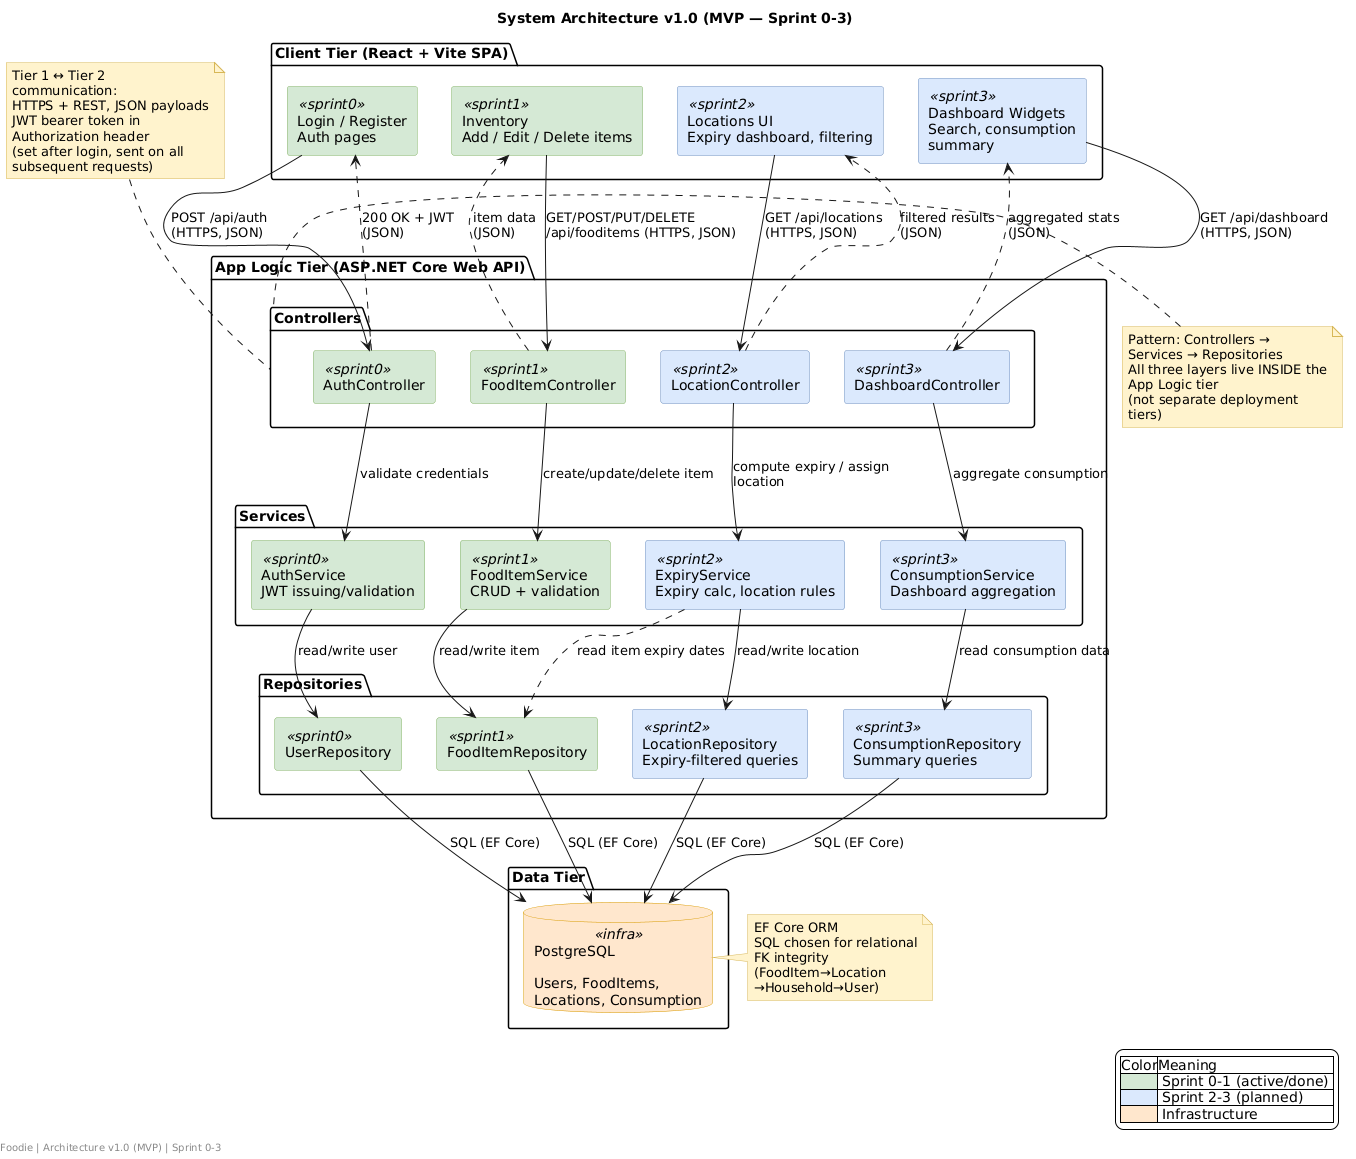
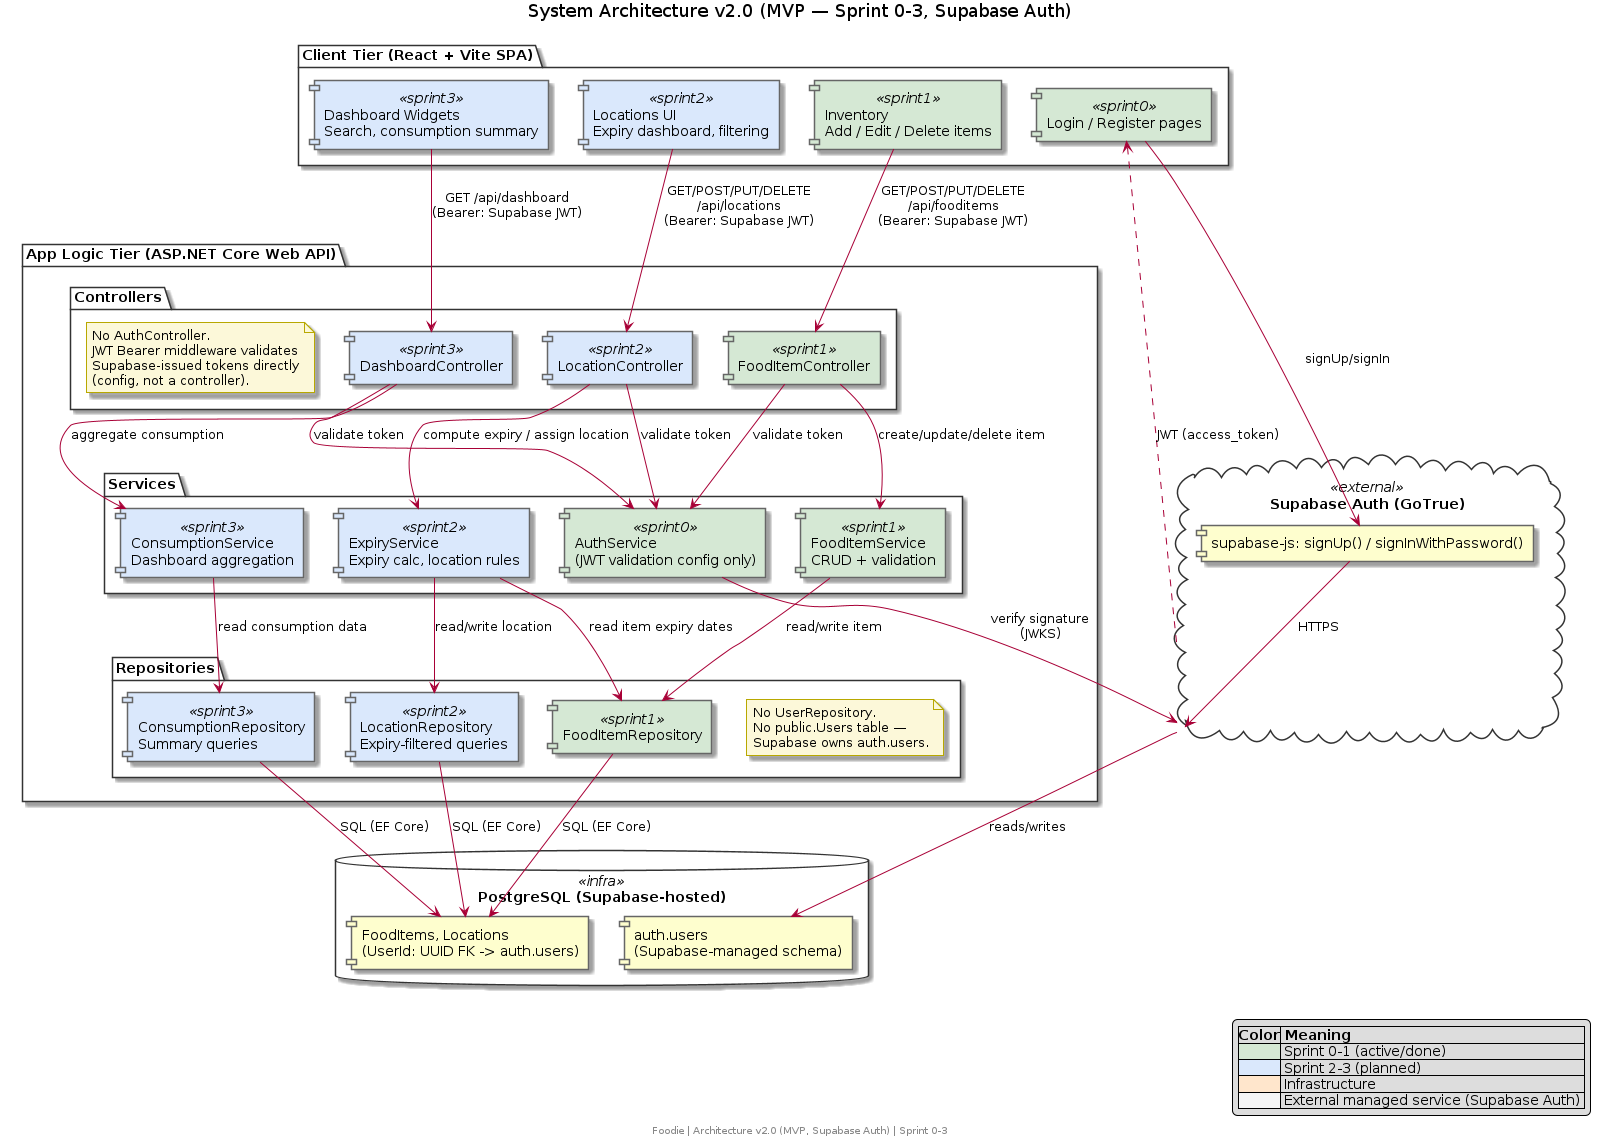
docs: update document to align with authentication shift to depend on Supabase

diff --git a/docs/Foodie_Database_Decisions.md b/docs/Foodie_Database_Decisions.md
@@ -4,7 +4,7 @@
 
 ## 1. Tables (Entities)
 
-Three tables for the MVP: **Users**, **Locations**, **FoodItems**.
+Two tables of our own for the MVP: **Locations**, **FoodItems**. There is no `public.Users` table — Supabase Auth owns identity via `auth.users`, and `Locations`/`FoodItems` reference `auth.users.id` directly.
 
 **Chosen over:** A single denormalized table; a separate `Consumption` table.
 
@@ -14,11 +14,11 @@ Each table represents one real-world concept with no repeating groups (1NF) and 
 
 ## 2. Primary Keys — Surrogate, not Natural
 
-**Chosen over:** Natural keys (e.g. `Email` as PK on Users, `Name` as PK on Locations).
+**Chosen over:** Natural keys (e.g. `Name` as PK on Locations).
 
-All three tables use an auto-incrementing `Id` (INT) as a surrogate primary key.
+`Locations` and `FoodItems` each use an auto-incrementing `Id` (INT) as a surrogate primary key, unchanged. `UserId` on both is now a `UUID`, not an `INT` — it's a foreign key into Supabase's `auth.users.id`, which we don't generate ourselves.
 
-Surrogate keys were chosen because: none of Foodie's entities have a value that's both naturally unique *and* guaranteed never to change. `Email` could be a candidate key on `Users` (and is enforced as `UNIQUE`, see Section 4), but using it as the PK would mean every FK referencing a user breaks if the email is ever updated. `Location.Name` ("Fridge", "Pantry") isn't even unique within a household, let alone across all users. Surrogate keys avoid both problems and keep every FK column a stable, opaque integer.
+Surrogate keys were chosen for `Locations.Id`/`FoodItems.Id` because none of Foodie's own entities have a value that's both naturally unique *and* guaranteed never to change. `Location.Name` ("Fridge", "Pantry") isn't even unique within a household, let alone across all users. Surrogate keys avoid this and keep those PK columns stable, opaque integers.
 
 ---
 
@@ -28,9 +28,9 @@ All three relationships in Foodie are **one-to-many**; there are no many-to-many
 
 | Relationship | Cardinality | FK column |
 |---|---|---|
-| Users → Locations | 1 : N | `Locations.UserId` |
-| Users → FoodItems | 1 : N | `FoodItems.UserId` |
-| Locations → FoodItems | 1 : N | `FoodItems.LocationId` |
+| auth.users → Locations | 1 : N | `Locations.UserId` (UUID) |
+| auth.users → FoodItems | 1 : N | `FoodItems.UserId` (UUID) |
+| Locations → FoodItems | 1 : N | `FoodItems.LocationId` (INT) |
 
 **Why no junction table:** the article's many-to-many pattern (e.g. students↔courses) applies when both sides can have multiple of the other. That's not true here — one location belongs to exactly one user, one food item belongs to exactly one location. If a future feature allowed *shared households* (multiple users managing the same location), that would become many-to-many and require a junction table (e.g. `LocationMembers`). Out of scope for MVP.
 
@@ -49,7 +49,7 @@ These can't both be enforced as hard database constraints simultaneously: `ON DE
 
 **Why this split, not the other way around:** Enforcing "required" at the DB level (`NOT NULL`) would force `ON DELETE` to be either `CASCADE` (deletes the user's food data — too destructive for what should be a low-stakes action like renaming/removing a shelf) or `NO ACTION`/`RESTRICT` (blocks the delete entirely until every item is reassigned — overly strict for a casual organizing app). `SET NULL` is the better UX: delete the location, items survive as "unassigned," user reassigns them later through the normal edit flow. The trade-off is that referential integrity alone can no longer guarantee every item has a location — that responsibility now sits with the application/service layer (`FoodItemService`), which is an explicit, documented gap rather than an accidental one.
 
-All other FK columns (`Locations.UserId`, `FoodItems.UserId`) are **NOT NULL** — a location or food item with no owning user is meaningless, and there's no equivalent "soft unassign" use case for the user relationship; if a user is deleted, their data should go with them (`ON DELETE CASCADE`).
+All other FK columns (`Locations.UserId`, `FoodItems.UserId`) are **NOT NULL** — a location or food item with no owning user is meaningless, and there's no equivalent "soft unassign" use case for the user relationship; if a user is deleted, their data should go with them (`ON DELETE CASCADE`). These FKs now reference `auth.users.id` instead of a table we manage ourselves; the cascade still fires the same way on user deletion.
 
 ---
 
@@ -69,9 +69,9 @@ Following the article's three integrity types:
 
 | Type | Applied as |
 |---|---|
-| **Entity integrity** | Every table has a non-null, unique surrogate PK (`Id`) |
+| **Entity integrity** | Every table has a non-null, unique surrogate PK (`Id`); user identity integrity is Supabase's responsibility (`auth.users`) |
 | **Referential integrity** | All FKs declared with explicit `ON DELETE` behavior (Section 4) — none left as an undefined default |
-| **Domain integrity** | `Quantity` constrained to `>= 0` (`CHECK` constraint); `Email` constrained `UNIQUE` |
+| **Domain integrity** | `Quantity` constrained to `>= 0` (`CHECK` constraint); email uniqueness is enforced by Supabase Auth, not our schema |
 
 ---
 
@@ -79,5 +79,6 @@ Following the article's three integrity types:
 
 - **Consumption history table** — not needed until a feature requires historical reporting, not just current state (Section 1)
 - **Shared households / multi-user locations** — would require a many-to-many junction table; not in Sprint 0-3 scope (Section 3)
-- **Soft-delete on Users/Locations/FoodItems** — MVP uses hard deletes with cascade/set-null; soft-delete (an `IsDeleted` flag) would be a later addition if an "undo delete" or audit-trail feature is requested
-- **Physical address on Locations** — MVP assumes one home per user, so `Locations` has no `Address` field. Adding one now would duplicate the same address on every row for that user (a 3NF violation — address depends on the *home*, not the *location*). When multi-home support is added, the fix is a new `Homes` table (`Id`, `Address`, owning `User`) with `Locations` gaining a `HomeId` FK — not an `Address` column on `Locations` itself.
+- **Soft-delete on Locations/FoodItems** — MVP uses hard deletes with cascade/set-null; soft-delete (an `IsDeleted` flag) would be a later addition if an "undo delete" or audit-trail feature is requested. (User soft-delete is Supabase Auth's responsibility, not ours.)
+- **Physical address on Locations** — MVP assumes one home per user, so `Locations` has no `Address` field. Adding one now would duplicate the same address on every row for that user (a 3NF violation — address depends on the *home*, not the *location*). When multi-home support is added, the fix is a new `Homes` table (`Id`, `Address`, owning user via `UserId UUID`) with `Locations` gaining a `HomeId` FK — not an `Address` column on `Locations` itself.
+- **Row Level Security (RLS)** — deliberately not adopted for MVP; the ASP.NET Core API remains the sole gatekeeper (Services layer, as in Section 4). Revisit only if the database is ever queried by more than one trusted backend, or by clients directly.

diff --git a/docs/Foodie_Architecture_Decisions.md b/docs/Foodie_Architecture_Decisions.md
@@ -23,7 +23,9 @@ App Logic Tier     →  ASP.NET Core Web API
                       (Controllers → Services → Repositories, one process)
 
   Controllers      →  HTTP in/out
-                      ├── AuthController ...................... Sprint 0
+                      ├── (no AuthController — Supabase Auth
+                      │     handles register/login directly
+                      │     from the client) .................. Sprint 0
                       ├── FoodItemsController ................. Sprint 1
                       ├── LocationsController, expiry
                       │     endpoints ......................... Sprint 2
@@ -32,8 +34,9 @@ App Logic Tier     →  ASP.NET Core Web API
         │
         ▼
   Services         →  Business rules
-                      ├── JWT issuing/validation, password
-                      │     hashing ........................... Sprint 0
+                      ├── JWT validation config only (no
+                      │     issuing, no password hashing —
+                      │     Supabase Auth owns both) .......... Sprint 0
                       ├── Item validation rules ................ Sprint 1
                       ├── Expiry calculation, location-
                       │     assignment rules .................. Sprint 2
@@ -42,7 +45,8 @@ App Logic Tier     →  ASP.NET Core Web API
         │
         ▼
   Repositories     →  EF Core data access
-                      ├── UserRepository ....................... Sprint 0
+                      ├── (no UserRepository — no public.Users
+                      │     table; Supabase owns auth.users) .. Sprint 0
                       ├── FoodItemRepository ................... Sprint 1
                       ├── LocationRepository, expiry-filtered
                       │     queries ............................ Sprint 2
@@ -50,14 +54,18 @@ App Logic Tier     →  ASP.NET Core Web API
                             summary queries .................... Sprint 3
         │
         ▼
-Database Tier      →  PostgreSQL
-                      ├── Users table, initial migration ....... Sprint 0
-                      ├── FoodItems table ....................... Sprint 1
+Database Tier      →  PostgreSQL (Supabase-hosted)
+                      ├── auth.users managed entirely by
+                      │     Supabase Auth ...................... Sprint 0
+                      ├── FoodItems table (UserId as UUID FK
+                      │     into auth.users) ................... Sprint 1
                       ├── Locations table, FK to FoodItems ...... Sprint 2
                       └── Schema support for consumption ........ Sprint 3
 ```
 
 Each arrow is a process boundary the previous tier can't see past — the client never talks to the database directly, and the database has no awareness of the client. Controllers, Services, and Repositories all run inside the *same* Tier 2 process; that's internal code organization, not three more tiers. The system is still 3-tier — Tier 2 just has structure inside it.
+
+*One boundary is deliberately different: for register/login specifically, the Client Tier talks directly to Supabase Auth, not through Tier 2.* This isn't the client reaching into the Database Tier — Supabase Auth is a managed identity service sitting in front of the `auth.users` data, not raw table access. Every other operation (Locations, FoodItems, expiry, consumption) still flows Client → Tier 2 → Tier 3 exactly as before; Tier 2 just receives an already-issued JWT to validate rather than issuing one itself.
 
 *Tier 1 renders client-side (CSR), not server-side — Foodie is a private, authenticated app with no anonymous-visitor or SEO audience, so SSR's main benefits don't apply. Revisit only if a public, SEO-relevant surface is added later.*
 

diff --git a/docs/Foodie_Sprint_Roadmap.md b/docs/Foodie_Sprint_Roadmap.md
@@ -7,7 +7,7 @@
 ---
 
 ## Sprint 0 — Planning & Foundation
-**Duration:** Week 1 (7 days)
+**Duration:** Week 1 (7 days; ~6 days of scoped work below — the Supabase Auth switch frees up ~1 day versus the original self-issued JWT plan, left as buffer)
 **Goal:** Create project foundations and establish a clear project direction before development begins.
 
 | Task | Est. Duration |
@@ -16,7 +16,7 @@
 | 2. User Stories & Requirements | 1 day |
 | 3. System Design | 1.5 days |
 | 4. Project Setup | 1.5 days |
-| 5. Authentication | 2 days |
+| 5. Authentication | 1 day |
 
 ### Task 1 — Define Product Scope and MVP *(1 day)*
 - Product Vision
@@ -42,11 +42,11 @@
 **Frontend:** Create React Vite application · Configure routing · Configure API service layer
 **Database:** Configure PostgreSQL · Configure Entity Framework Core · Create initial migration
 
-### Task 5 — Authentication *(2 days)*
-**Backend:** User Entity · Register API · Login API · JWT Authentication
-**Frontend:** Login Page · Register Page
+### Task 5 — Authentication *(1 day)*
+**Backend:** Configure Supabase Auth project (email/password provider only) · Configure JWT Bearer middleware to validate Supabase-issued tokens (no Register/Login API, no User entity — Supabase's `auth.users` replaces both)
+**Frontend:** Install `@supabase/supabase-js` · Login Page · Register Page (calling `supabase.auth.signInWithPassword()` / `signUp()` directly, not a custom backend endpoint)
 
-**Deliverable:** Users can register and login.
+**Deliverable:** Users can register and login via Supabase Auth; the ASP.NET Core API validates the resulting JWT on every subsequent request.
 
 ---
 

diff --git a/docs/Foodie_Tech_Decisions.md b/docs/Foodie_Tech_Decisions.md
@@ -53,14 +53,17 @@
 
 ---
 
-## 5. JWT Authentication
+## 5. Supabase Auth (JWT issued by Supabase, validated by ASP.NET Core)
 
-**Chosen over:** Session-based auth
+**Chosen over:** Self-issued JWT (original decision), Session-based auth
 
-**Reason:** Stateless, fits an SPA calling a separate API — no server-side session store. Claims (user ID, household ID) avoid a DB round-trip per request.
+**Reason:** Stateless JWT still fits an SPA calling a separate API — no session store, claims avoid a DB round-trip per request. Supabase's Auth service (GoTrue) now owns registration, login, hashing, and token issuance; ASP.NET Core just validates via AddJwtBearer against Supabase's JWKS. No AuthController, no hashing code, no Users table — auth.users replaces it. Email/password only for v1; OAuth is a dashboard toggle later, no backend change needed.
 
 **Comparison:**
-- **Vs. session-based:** needs a session store (in-memory or shared cache) looked up on every request. JWT just verifies a signature — no lookup, no infra to sync across instances.
+
+
+**Vs. self-issued JWT (original decision):** less code to maintain, no hashing load on the API thread, token issuance decoupled from the API's own deploys/cold-starts. Trade-off: dependency on Supabase's uptime, and UserId moves from INT to UUID (Section 2 of Foodie_Database_Decisions.md).
+**Vs. session-based:** unchanged — still needs a session store per request; JWT just verifies a signature.
 
 ---
 

diff --git a/docs/Foodie_Tech_Stack.md b/docs/Foodie_Tech_Stack.md
@@ -14,7 +14,8 @@
 | Runtime (dev/CI) | Node.js 24.x — *exact patch not yet confirmed, run `node --version`* | Required by Vite 8; Active LTS line |
 | Database | PostgreSQL 18.4 | Relational fit for foreign-key-heavy data; free, flexible, hosts anywhere |
 | DB driver | Npgsql 10.0.x (EF Core provider) | Standard EF Core ↔ Postgres bridge |
-| Auth | JWT | Stateless, fits SPA-to-API calls without a session store |
+| Auth | Supabase Auth (JWT) | Supabase issues/manages the JWT (registration, login, password hashing); ASP.NET Core validates it. Stateless, fits SPA-to-API calls without a session store |
+| Auth client (frontend) | `@supabase/supabase-js` | Frontend SDK for register/login calls directly to Supabase Auth |
 | E2E testing | Playwright 1.61.0 | Single tool, cross-browser, fits a React SPA |
 | Backend testing | xUnit 2.9.x | Standard ASP.NET Core unit/integration testing |
 | Containers | Docker — *not yet confirmed, run `docker --version`* | Reproducible local Postgres + dev/prod parity |